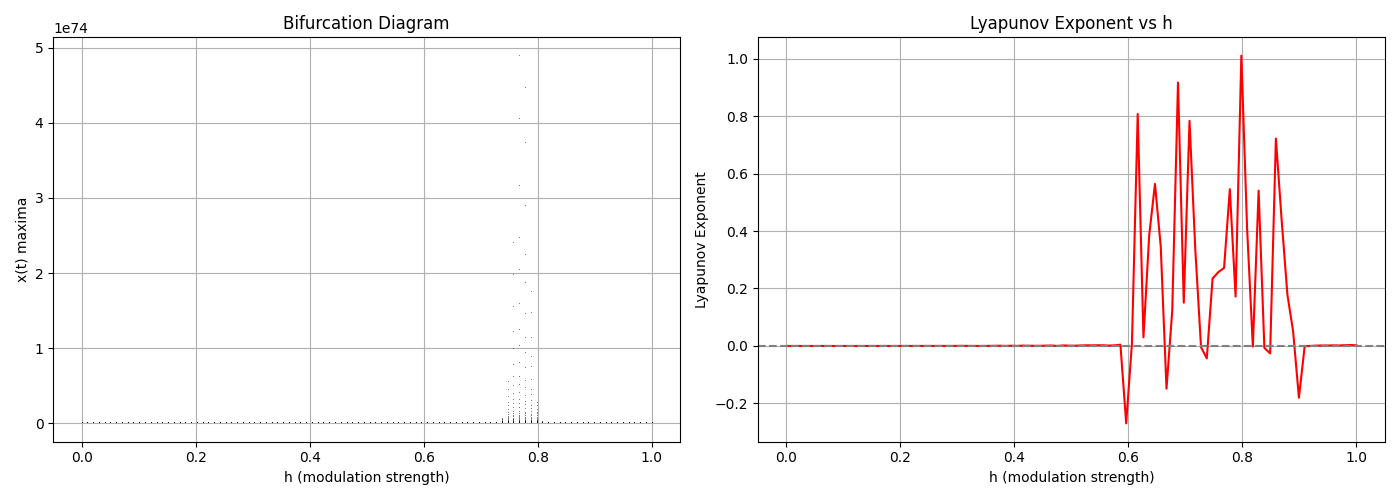
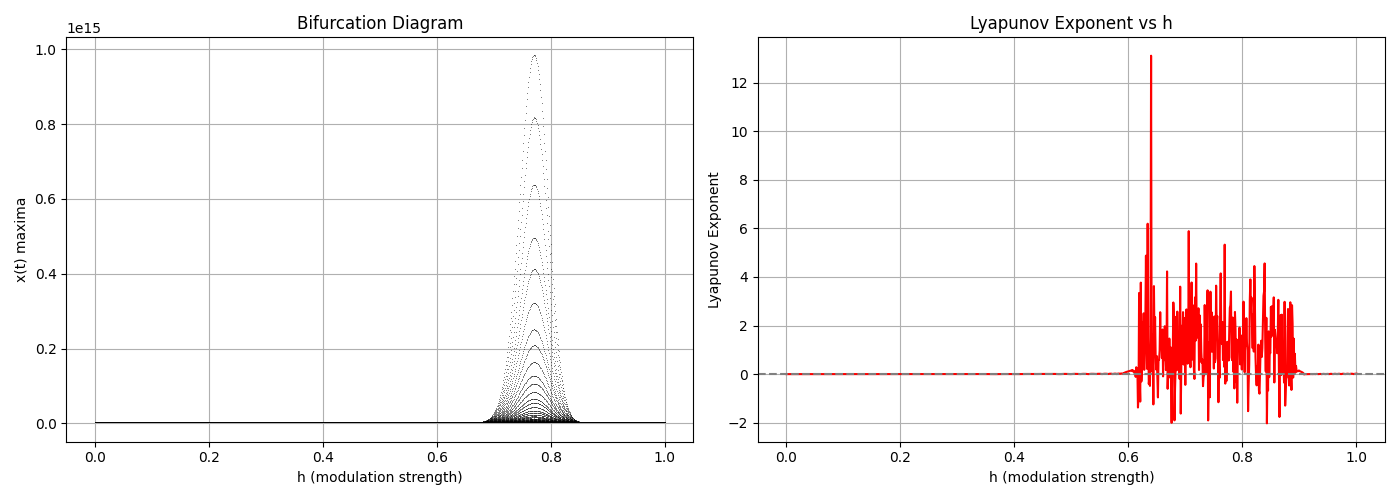
modified:   experimental/statistic.png modified:   experimental/weierstrass_parametric_oscillator_stat.py

diff --git a/experimental/weierstrass_parametric_oscillator_stat.py b/experimental/weierstrass_parametric_oscillator_stat.py
@@ -93,8 +93,8 @@ def plot_bifurcation_and_lyapunov(h_vals, t, omega0, a, b, n_terms, dt):
     plt.show()
 
 # Example usage
-h_vals = np.linspace(0, 1.0, 100)
-t = np.arange(0, 500, 0.001)
+h_vals = np.linspace(0, 1.0, 1000)
+t = np.arange(0, 100, 0.001)
 om = 1.0
 
 plot_bifurcation_and_lyapunov(h_vals, t, omega0=om, a=0.5, b=7, n_terms=30, dt=0.01)
